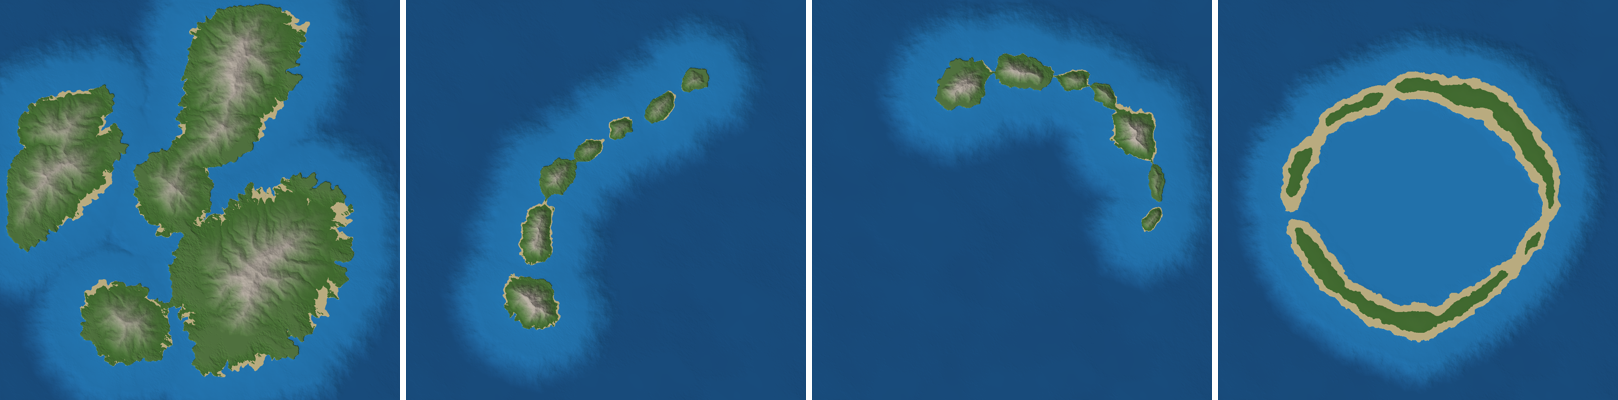
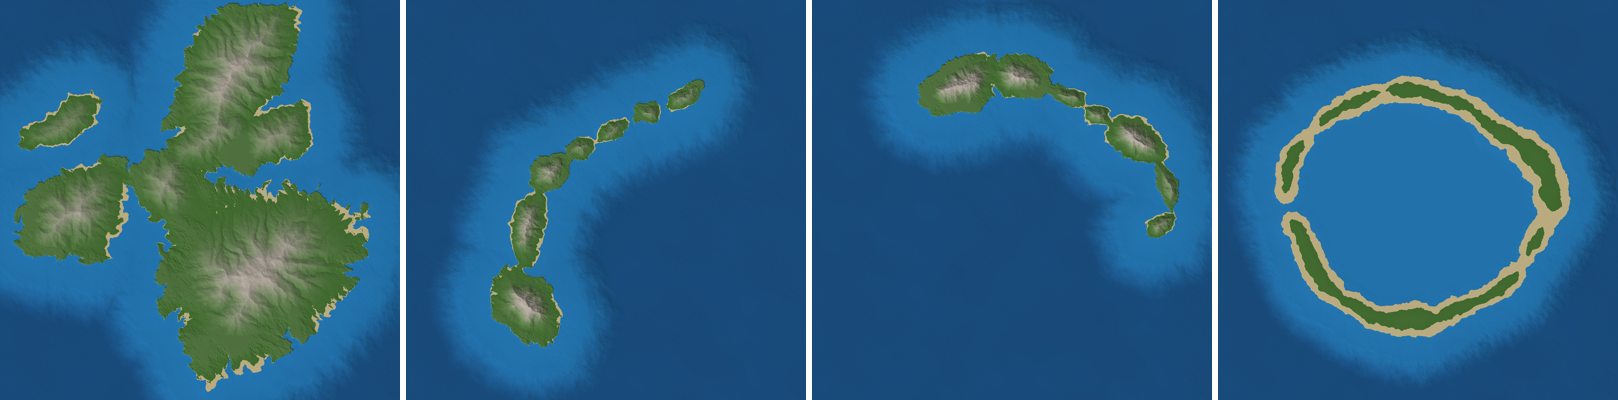
feat: shape islands and continents from large-scale noise so outlines are irregular and not ovals or squares

diff --git a/docs/lua_reference.md b/docs/lua_reference.md
@@ -1207,9 +1207,10 @@ islands end to end on a bent line, large at one end), `"arc"` (the same on an ar
 low islets round a lagoon of a few tens of metres, `lagoon_depth`). `Lands.Continent` is several large
 lobes with ranges along them.
 
-`land_fraction` is the target and the default is 0.7 for an island or a continent. A layout that keeps its
-islands apart cannot fill the map: scattered islands reach 35 to 55 %, a chain or an arc a few per cent, an
-atoll about 12 %. Asking for more merges them into one mass. `area` / `areas` take drawn polygons for when
+`land_fraction` is the target and the default is 0.7 for an island or a continent, whose outline is the
+lowest 30 % of a field of bodies plus large-scale noise: gulfs, peninsulas and rias, not an oval. A layout that
+keeps its islands apart cannot fill the map: scattered islands default to 0.4, a chain or an arc to 0.12 (they
+reach 6 %) and an atoll about 12 %. Asking for more merges them into one mass. `area` / `areas` take drawn polygons for when
 a shape must be exactly that; they go through the same rivers and sea level.
 
 `terrain_metrics` measures an export (land fraction, masses, lagoons, coast length, box-counting dimension,

diff --git a/docs/todo.md b/docs/todo.md
@@ -69,10 +69,10 @@ full history is in the git log.
 
 - [ ] **No real references measured yet**: the heightmaps in `docs/references/{islands,archipelagos,
       continents}` have not been run through `terrain_metrics`; per-type acceptance numbers wait for it.
-- [ ] **A chain, an arc and an atoll reach a few per cent of the map**, not 70 %: the layouts keep their
+- [ ] **A chain, an arc and an atoll reach 6 to 12 % of the map**, not 70 %: the layouts keep their
       islands apart. A broader chain (islands side by side) would fill more of a square.
-- [ ] **The coast is frayed at the finest scale**: the micro warp and the gullies give a ragged edge on
-      the 70 % island; the references have smoother large coasts with fewer, deeper inlets.
+- [ ] **The 70 % island touches the map edge in places**: the land is cropped by the window, as a piece
+      of a larger landmass; the references mostly leave a sea margin.
 - [ ] **Coast type has no fetch**: exposure is the normal against one wave direction.
 - [ ] **No lakes or rivers as water**: drowned valleys that do not reach the sea count as lagoons in the
       metrics (10 to 30 on a default island).
